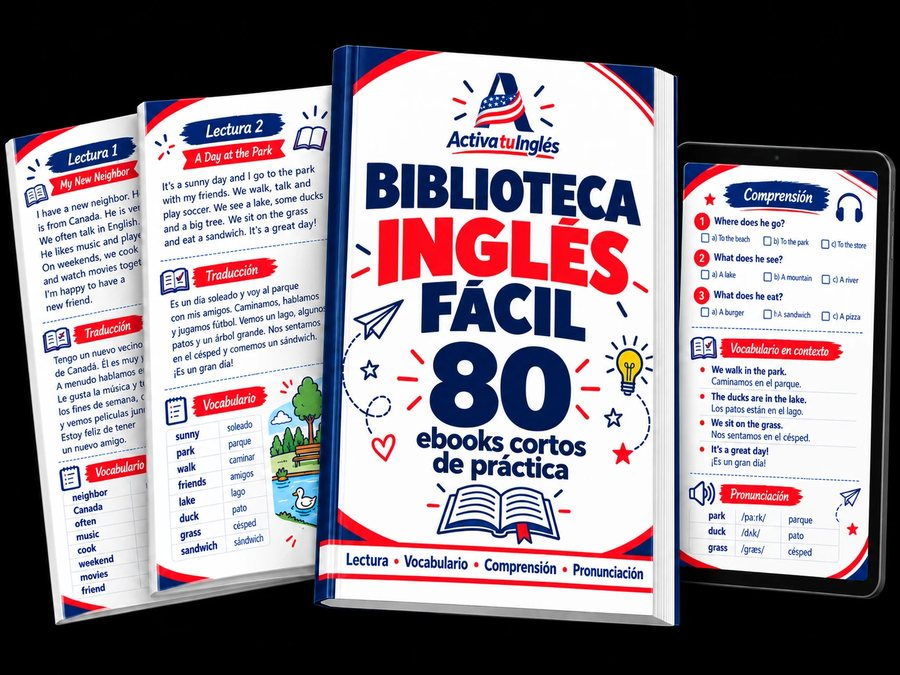
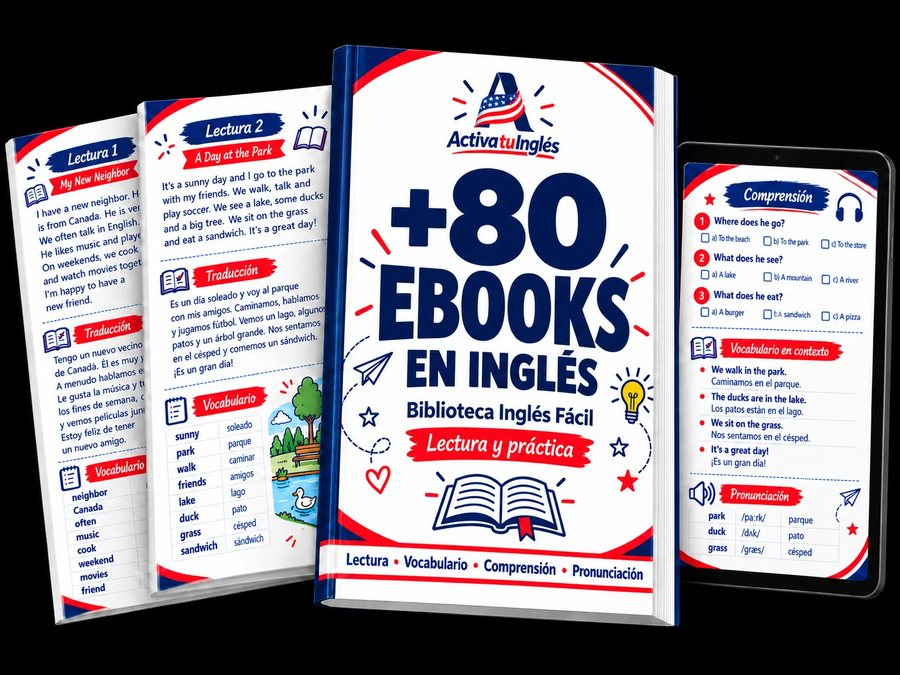
Nuevas imágenes: portada Biblioteca +80 ebooks y mockup principal actualizado; texto +80
Claude-Session: https://claude.ai/code/session_01LHiwyqZ98s1RGtYXVZCqTh

diff --git a/index.html b/index.html
@@ -1013,10 +1013,10 @@
               <p class="bonus-price"><span class="price-old">Valor US$ 7</span> → <strong>GRATIS</strong></p>
             </div>
             <div class="bonus-card bonus-card-featured">
-              <img src="bonus-biblioteca.jpg" alt="Portada: Biblioteca Inglés Fácil, 80 ebooks cortos de práctica" class="bonus-image" loading="lazy" decoding="async" />
+              <img src="bonus-biblioteca.jpg" alt="Portada: Biblioteca Inglés Fácil, +80 ebooks en inglés" class="bonus-image" loading="lazy" decoding="async" />
               <span class="bonus-kicker">Bono #5</span>
-              <h3>Biblioteca Inglés Fácil <small>(80 ebooks cortos de práctica)</small></h3>
-              <p>Lectura, vocabulario, comprensión y pronunciación en 80 ebooks cortos, con textos en inglés y explicaciones en español, para practicar un poco cada día.</p>
+              <h3>Biblioteca Inglés Fácil <small>(+80 ebooks cortos de práctica)</small></h3>
+              <p>Lectura, vocabulario, comprensión y pronunciación en +80 ebooks cortos, con textos en inglés y explicaciones en español, para practicar un poco cada día.</p>
               <p class="bonus-price"><span class="price-old">Valor US$ 19</span> → <strong>GRATIS</strong></p>
             </div>
           </div>
@@ -1056,7 +1056,7 @@
               </li>
                           <li class="stack-item">
                 <img src="bonus-biblioteca.jpg" alt="Portada: Biblioteca Inglés Fácil" width="900" height="675" loading="lazy" decoding="async" />
-                <span class="stack-name">Bono 5: Biblioteca Inglés Fácil <small>80 ebooks cortos de práctica</small></span>
+                <span class="stack-name">Bono 5: Biblioteca Inglés Fácil <small>+80 ebooks cortos de práctica</small></span>
                 <span class="stack-value">US$ 19</span>
               </li>
             </ul>
